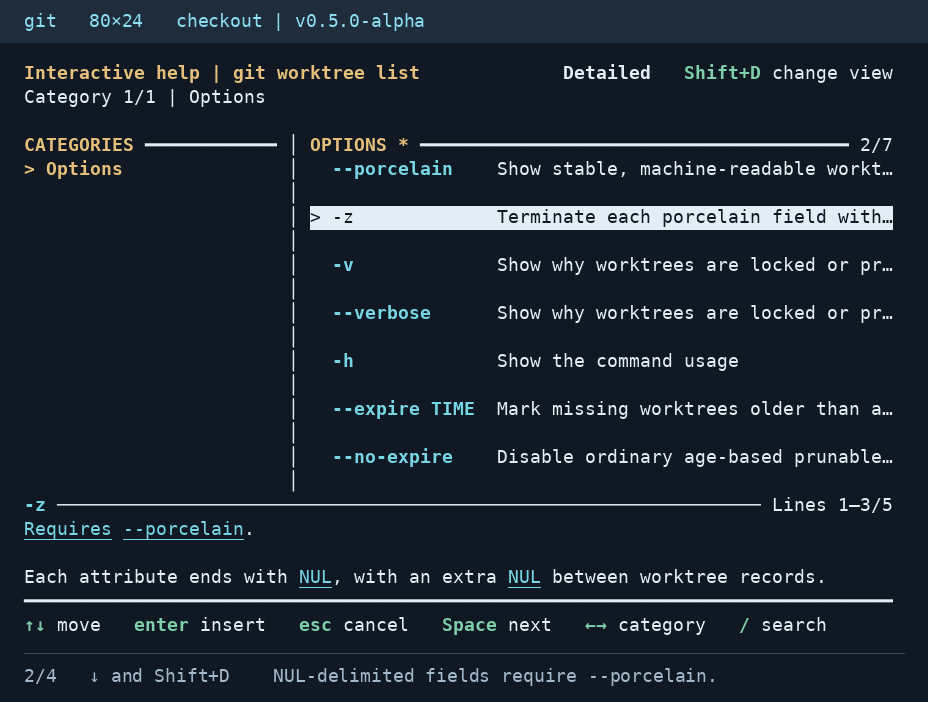
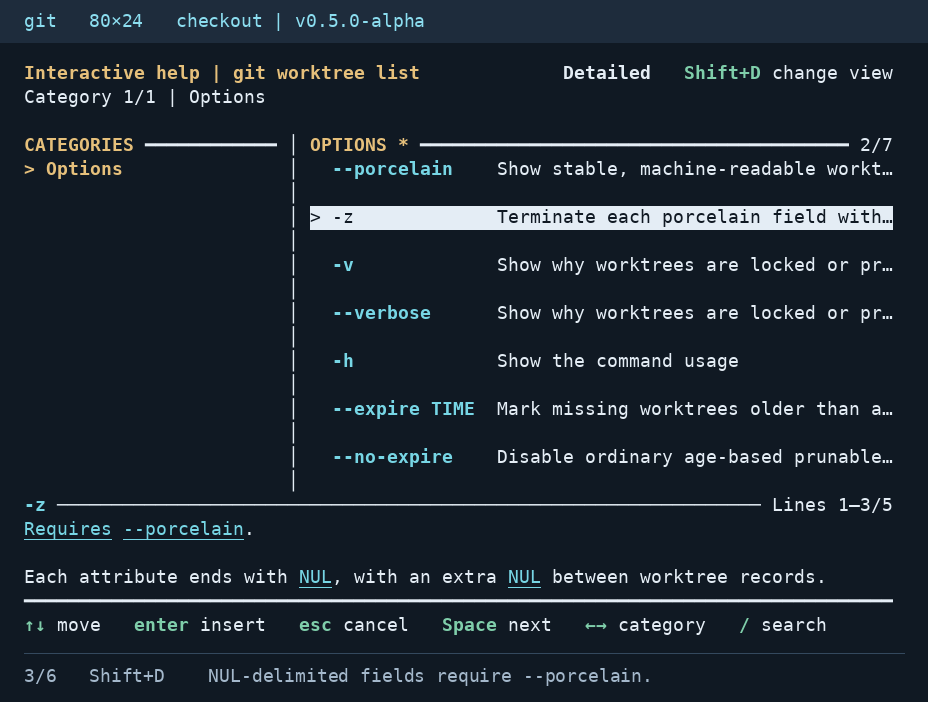
Explain simulation flags and detail levels

Changed region(s): [[0.0938, 0.9573, 0.7812, 0.9872], [0.0312, 0.9573, 0.0625, 0.9872]]

diff --git a/tools/capture_scenario_demos.py b/tools/capture_scenario_demos.py
@@ -80,6 +80,11 @@ class Recording:
         assert not self.shell.executed.exists()
         self.evidence.append(dict(pending=line, point=point, terminal_cursor=[state.x, state.y]))
 
+    def next_level(self, expected):
+        """Send Shift+D and wait for the menu header to confirm the requested level."""
+        self.shell.keys("D")
+        return self.shell.wait_for(lambda state: state.cells[0].endswith(expected + "   Shift+D change view"))
+
     def select(self, label):
         """Move through a filtered option list until the exact visible declaration is selected."""
         state = self.shell.capture()
@@ -119,21 +124,28 @@ def apt(rec):
     s.text("apt ins" + suffix)
     s.keys(*["Left"] * len(suffix))
     rec.pending("apt ins" + suffix, len("apt ins"))
-    rec.still("1-before", "1/4   Complete the verb before the quoted package name.", "apt ins 'graphviz'")
+    rec.still("1-before", "1/6   Complete the verb before the quoted package name.", "apt ins 'graphviz'")
     s.open_menu()
     rec.select("install")
-    rec.still("2-verb", "2/4   Alt-H → install    Complete the APT verb.", "> install [keyword]")
+    rec.still("2-verb", "2/6   Alt-H → install    Complete the APT verb.", "> install [keyword]")
     s.keys("Enter")
     rec.pending("apt install" + suffix, len("apt install "))
     s.text("--sim ")
     s.keys("Left")
     s.open_menu()
     rec.select("--simulate")
-    rec.still("3-simulate", "3/4   Alt-H → --simulate    Browse options specific to apt install.",
-              "Interactive help | apt install", "> --simulate")
+    rec.still("3-simulate", "3/6   Alt-H → --simulate    Browse options specific to apt install.",
+              "Interactive help | apt install", "> --simulate", "Simple   Shift+D")
+    rec.next_level("Detailed")
+    rec.still("3a-detailed", "4/6   Shift+D    The simulation calculates a plan with locking disabled.",
+              "> --simulate", "Detailed   Shift+D", "Plan: Preview", "Locking: APT disables locks")
+    rec.next_level("Expanded")
+    rec.still("3b-expanded", "5/6   Shift+D    Decode the planned dpkg actions and check the non-root caveat.",
+              "> --simulate", "Expanded   Shift+D", "Inst means unpack", "Conf means configure",
+              "Remv means remove", "[]", "Permissions: A non-root user")
     s.keys("Enter")
     rec.pending("apt install --simulate" + suffix, len("apt install --simulate "))
-    rec.still("4-after", "4/4   Enter    Bash keeps the quotes and the command is ready to edit.", "--simulate 'graphviz'")
+    rec.still("4-after", "6/6   Enter    Bash keeps the quotes and the command is ready to edit.", "--simulate 'graphviz'")
 
 
 def bash(rec):
@@ -142,21 +154,21 @@ def bash(rec):
     s.text("builtin read ")
     s.open_menu()
     rec.select("-t timeout")
-    rec.still("1-option", "1/3   Alt-H → -t timeout    Bash lists the argument beside its option.", "> -t timeout", "-d delim")
-    s.keys("D")
-    detailed = s.wait_for(lambda f: "Detailed" in f.cells[0])
+    rec.still("1-option", "1/4   Alt-H → -t timeout    Bash lists the argument beside its option.", "> -t timeout", "-d delim", "Simple   Shift+D")
+    detailed = rec.next_level("Detailed")
     assert "within TIMEOUT seconds" in " ".join(detailed.detail_body)
-    s.keys("D")
-    expanded = s.wait_for(lambda f: "Expanded" in f.cells[0])
+    rec.still("1a-detailed", "2/4   Shift+D    Read when the selected timeout returns failure.",
+              "> -t timeout", "within TIMEOUT seconds", "Detailed   Shift+D")
+    expanded = rec.next_level("Expanded")
     assert expanded.detail_range[0] == 1
-    rec.still("2-timeout", "2/3   Shift+D twice    Read the timeout, default, zero case and exit status together.",
+    rec.still("2-timeout", "3/4   Shift+D again    Read the timeout, default, zero case and exit status together.",
               "within TIMEOUT seconds", "TMOUT", "If TIMEOUT is 0", "greater than 128", "> -t timeout")
     s.keys("Enter")
     rec.pending("builtin read -t ", len("builtin read -t "))
     s.text("5 reply")
     line = "builtin read -t 5 reply"
     rec.pending(line, len(line))
-    rec.still("3-value", "3/3   The menu inserted -t. The user typed 5 seconds and the variable name reply.", line)
+    rec.still("3-value", "4/4   The menu inserted -t. The user typed 5 seconds and the variable name reply.", line)
 
 
 def git(rec):
@@ -165,21 +177,27 @@ def git(rec):
     line = "git worktree list "
     s.text(line)
     s.open_menu()
-    rec.still("1-scope", "1/4   Alt-H    Seven options belong to git worktree list.", "> --porcelain", "1/7")
-    s.keys("Down", "D")
-    s.wait_for(lambda f: "Detailed" in f.cells[0])
-    rec.still("2-dependency", "2/4   ↓ and Shift+D    NUL-delimited fields require --porcelain.", "> -z ", "Requires --porcelain")
+    rec.still("1-scope", "1/6   Alt-H    Seven options belong to git worktree list.", "> --porcelain", "1/7")
+    s.keys("Down")
+    s.wait_for(lambda state: state.selected_row.startswith("> -z "))
+    rec.still("1a-simple", "2/6   ↓ to -z    Read the short NUL-termination summary.",
+              "> -z ", "Simple   Shift+D")
+    rec.next_level("Detailed")
+    rec.still("2-dependency", "3/6   Shift+D    NUL-delimited fields require --porcelain.", "> -z ", "Requires --porcelain")
+    rec.next_level("Expanded")
+    rec.still("2a-expanded", "4/6   Shift+D    Read how Git separates worktree records.",
+              "> -z ", "Expanded   Shift+D", "Paths can contain newlines.")
     s.keys("Up", "Enter")
     line += "--porcelain "
     rec.pending(line, len(line))
-    rec.still("3-porcelain", "3/4   ↑ and Enter    Insert the stable output format first.", line.rstrip())
+    rec.still("3-porcelain", "5/6   ↑ and Enter    Insert the stable output format first.", line.rstrip())
     s.open_menu()
     s.keys("Down")
     s.wait_for(lambda f: f.selected_row.startswith("> -z "))
     s.keys("Enter")
     line += "-z "
     rec.pending(line, len(line))
-    rec.still("4-final", "4/4   Alt-H → -z → Enter    Both switches are on the pending line.", line.rstrip())
+    rec.still("4-final", "6/6   Alt-H → -z → Enter    Both switches are on the pending line.", line.rstrip())
 
 
 def ffmpeg(rec):
@@ -192,19 +210,25 @@ def ffmpeg(rec):
     s.open_menu()
     s.keys(*["Right"] * 13)
     s.wait_for(lambda f: f.selected_row.startswith("> -alpha_mode "))
-    rec.still("1-first", "1/4   Alt-H → Codec parameters    Start at the first of 92 entries.", "> -alpha_mode", "1/92")
+    rec.still("1-first", "1/6   Alt-H → Codec parameters    Start at the first of 92 entries.", "> -alpha_mode", "1/92")
     s.keys("PageDown")
     page = s.wait_for(lambda f: f.selected_row and not f.selected_row.startswith("> -alpha_mode "))
     label = page.selected_row.split()[1]
     count = re.search(r"(\d+)/92$", page.cells[3])[1]
     assert 1 < int(count) < 92
-    rec.still("2-page", f"2/4   PageDown    The next page selects {label}, entry {count} of 92.", "> " + label + " ", count + "/92")
+    rec.still("2-page", f"2/6   PageDown    The next page selects {label}, entry {count} of 92.", "> " + label + " ", count + "/92")
     s.keys("End")
     s.wait_for(lambda f: f.selected_row.startswith("> -trellis "))
-    rec.still("3-last", "3/4   End    Reach the final codec parameter in one keystroke.", "> -trellis", "92/92")
+    rec.still("3-last", "3/6   End    Reach the final codec parameter in one keystroke.", "> -trellis", "92/92", "Simple   Shift+D")
+    rec.next_level("Detailed")
+    rec.still("3a-detailed", "4/6   Shift+D    Read where -trellis belongs in the FFmpeg command.",
+              "> -trellis", "92/92", "Detailed   Shift+D", "Before the output filename")
+    rec.next_level("Expanded")
+    rec.still("3b-expanded", "5/6   Shift+D    Inspect the numerical guidance for -trellis.",
+              "> -trellis", "92/92", "Expanded   Shift+D")
     s.cancel()
     rec.pending(prefix + suffix, len(prefix))
-    rec.still("4-restored", "4/4   Esc returns to the edit    The cursor and quoted filename are restored.", suffix)
+    rec.still("4-restored", "6/6   Esc returns to the edit    The cursor and quoted filename are restored.", suffix)
 
 
 def rsync(rec):
@@ -254,6 +278,17 @@ def rsync(rec):
         add(frame, "Bare rate in KiB/s    Only the clipped summary moves.", delay)
     time.sleep(1)
     assert rec.frame().cells == motion[-1][1].cells
+    s.keys("Right")
+    s.wait_for(lambda state: state.cells[1].startswith("Details"))
+    for level, caption in (
+            ("Simple", "→ Details    Read the selected option's summary."),
+            ("Detailed", "Shift+D    Read the bandwidth and rounding rules."),
+            ("Expanded", "Shift+D    Inspect the documented rate and units.")):
+        if level != "Simple":
+            rec.next_level(level)
+        frame = rec.still(level.lower(), caption, "Details", "--bwlimit=RATE", level + "   Shift+D")
+        add(frame, caption, 3200 if level != "Expanded" else 4500)
+
     s.keys("Enter")
     prefix = "rsync --bwlimit="
     rec.pending(prefix, len(prefix))

diff --git a/tests/test_ubuntu_command_coverage.py b/tests/test_ubuntu_command_coverage.py
@@ -33,6 +33,31 @@ class UbuntuPackagingTests(unittest.TestCase):
             return build_profile([name, *subcommands], documents)
         return find_context(line, len(line) if cursor is None else cursor, [], lookup)
 
+    def test_apt_simulation_levels_aliases_and_short_option_scope(self):
+        from presentation import option_text
+
+        for edition in ("noble", "resolute"):
+            for program in ("apt", "apt-get"):
+                with self.subTest(edition=edition, program=program):
+                    prefix = program + " install --sim"
+                    context = self.menu(edition, prefix + " 'graphviz'", len(prefix))
+                    options = rows(context.profile)
+                    category = context.profile["categories"][0]
+                    for flag in ("--simulate", "-s", "--just-print", "--dry-run", "--recon", "--no-act"):
+                        view = option_text(context.profile, category, options[flag])
+                        self.assertEqual(view.summary, "Simulate package actions without changing the system")
+                        self.assertIn("current package state", view.detailed[0])
+                        self.assertIn("disables locks", view.detailed[1])
+                        expanded = " ".join(view.expanded)
+                        for meaning in ("Inst means unpack", "Conf means configure", "Remv means remove",
+                                        "broken packages", "non-root", "APT::Get::Simulate"):
+                            self.assertIn(meaning, expanded)
+                        result = program + " install " + flag + " "
+                        self.assertEqual(insert_option(context, options[flag]), (result + "'graphviz'", len(result)))
+            cache_file = rows(self.menu(edition, "apt search ").profile)["-s"]
+            self.assertEqual(cache_file["argument"], "FILE")
+            self.assertNotIn("disables locks", cache_file.get("detail", ""))
+
     def test_apt_verb_edition_alias_and_operand_boundaries(self):
         for edition in ("noble", "resolute"):
             with self.subTest(edition=edition):

diff --git a/cli_help/ubuntu_packaging.py b/cli_help/ubuntu_packaging.py
@@ -46,6 +46,20 @@ APT_VALUES = {
     "-f": "FILE", "-o": "KEY=VALUE", "-p": "FILE", "-s": "FILE", "-t": "RELEASE",
 }
 
+# Both reviewed apt(8) editions refer install to apt-get(8), whose --simulate
+# entry documents these spellings. Other APT tools can assign -s a different role.
+SIMULATION_FLAGS = frozenset({"-s", "--simulate", "--just-print", "--dry-run", "--recon", "--no-act"})
+SIMULATION_DETAIL = (
+    "Plan: Preview the operations for the current package state without applying them.\n"
+    "Locking: APT disables locks during simulation, so the package state can change during the run.\n"
+    "Output: Inst means unpack, Conf means configure, and Remv means remove.\n"
+    "Brackets: Square brackets mark broken packages, with [] for rare breaks of no consequence.\n"
+    "Permissions: A non-root user can get a different plan if some APT configuration is unreadable.\n"
+    "Configuration: APT::Get::Simulate enables simulation. "
+    "APT::Get::Show-User-Simulation-Note controls the notice shown by default to non-root users.\n"
+    "Source: apt-get(8), --simulate."
+)
+
 
 def apt_document(text, command):
     """Select options by the edition printed in root help or the packaged manual footer."""
@@ -62,6 +76,8 @@ def apt_document(text, command):
             summary = DESCRIPTIONS.get(flag) or f"Set the {flag} option for {' '.join(command)}."
             entry = {"flag": flag, "argument": APT_VALUES[flag] if required else "",
                      "summary": summary, "category": "Options"}
+            if name in {"apt", "apt-get"} and "--simulate" in verbs[verb] and flag in SIMULATION_FLAGS and not required:
+                entry.update(summary=DESCRIPTIONS["--simulate"], detail=SIMULATION_DETAIL)
             if required and len(flag) == 2:
                 entry["attached"] = True
             rows.append(entry)

diff --git a/cli_help/discovery.py b/cli_help/discovery.py
@@ -43,7 +43,7 @@ from value_semantics import ValueContext, validate_profile_semantics, validate_v
 # Limits apply per source. Two sources are queried on an uncached auto lookup.
 MAX_OUTPUT_BYTES = 512 * 1024
 MAX_CACHE_BYTES = 2 * 1024 * 1024
-CACHE_VERSION = 20
+CACHE_VERSION = 21
 FLAG_PATTERN = re.compile(r"(?<![\w=:-])(--?[A-Za-z0-9][A-Za-z0-9_-]*(?:[.:][A-Za-z0-9][A-Za-z0-9_-]*)*|-[.#:](?=,\s+--)|(?<=, )-@)(?=$|[\s,=\[<])")
 # These are interpreter switches with no separate values or code operands.
 # Module routes are deliberately independent of user-editable driver files.

diff --git a/docs/menu-demo-storyboards.md b/docs/menu-demo-storyboards.md
@@ -4,13 +4,13 @@ These five recordings show the development checkout running in real interactive 
 
 | Package | User’s task | Capability shown | Capture |
 | --- | --- | --- | --- |
-| apt | Preview installing Graphviz | Complete a verb at the cursor, then use verb-specific options | Four PNGs |
-| bash | Give a prompt a five-second timeout | Read installed builtin help and supply a required argument | Three PNGs |
-| git | Prepare a machine-readable worktree listing | Follow a nested command and discover a prerequisite | Four PNGs |
-| rsync | Limit a transfer over a slow connection | Reveal clipped text without shifting the option name | Timed GIF |
-| ffmpeg | Find the last entry in a large codec menu | Page through a category and cancel back to an unfinished edit | Four PNGs |
+| apt | Preview installing Graphviz | Complete a verb at the cursor, then use verb-specific options | Six PNGs |
+| bash | Give a prompt a five-second timeout | Read installed builtin help and supply a required argument | Four PNGs |
+| git | Prepare a machine-readable worktree listing | Follow a nested command and discover a prerequisite | Six PNGs |
+| rsync | Limit a transfer over a slow connection | Reveal clipped text without shifting the option name | Timed GIF and three PNGs |
+| ffmpeg | Find the last entry in a large codec menu | Page through a category and cancel back to an unfinished edit | Six PNGs |
 
-The recorder drove the Alt-H shortcut from Bash on Ubuntu 26.04.1 LTS, using Bash 5.3.9 and tmux. All five recordings use the working tree based on `9d512ed` with the updated Details formatting and shortcut colors. APT and Bash used installed-provider discovery. Git, rsync and FFmpeg used the bundled profiles. The menu images show the full pane. Prompt stills crop the empty rows below the cursor. Keystroke captions sit outside the terminal.
+The recorder drove the Alt-H shortcut from Bash on Ubuntu 26.04.1 LTS, using Bash 5.3.9 and tmux. The runtime is based on commit `32fcec7`. The APT recording also includes the manual-backed simulation guidance. Each three-level comparison keeps the same option selected and uses Shift+D to advance. APT and Bash used installed-provider discovery. Git, rsync and FFmpeg used the bundled profiles. The menu images show the full pane. Prompt stills crop the empty rows below the cursor. Keystroke captions sit outside the terminal.
 
 ## 1. APT · preview a package install
 
@@ -18,12 +18,16 @@ Start at 100×26 with `apt ins▏ 'graphviz'`.
 
 1. **Before.** Show the incomplete verb, cursor and quoted operand.
 2. **Complete the verb.** Press Alt-H, highlight the literal keyword `install`, and capture its selection. Press Enter in the menu.
-3. **Inspect the install options.** At the returned cursor before the quoted name, type `--sim` and a separating space. Move left one character to leave `apt install --sim▏ 'graphviz'`. Reopen with Alt-H and highlight `--simulate`. Keep the `apt install` title in frame.
+3. **Inspect the install options.** At the returned cursor before the quoted name, type `--sim` and a separating space. Move left one character to leave `apt install --sim▏ 'graphviz'`. Reopen with Alt-H and highlight `--simulate`. Keep the `apt install` title in frame. Advance through Detailed and Expanded. Detailed explains how the plan is computed with locking disabled. Expanded decodes the simulated dpkg actions and square brackets, then explains how configuration permissions can affect the result. The install entry in apt(8) points to apt-get(8), which documents the simulation flags. [Captured apt(8) manual](../tests/fixtures/ubuntu-coverage/resolute-apt.txt) · [Captured apt-get(8) manual](../tests/fixtures/ubuntu-coverage/resolute-apt-get.txt)
 4. **After.** Accept the option. Show `apt install --simulate ▏'graphviz'`. Frame the same portion of the prompt as in step 1 so the preserved quotes are easy to compare.
 
-| Pending edit | Select the verb | Select the option | Returned line |
-| --- | --- | --- | --- |
-| ![Bash cursor after ins, before the quoted package](assets/scenarios/apt-1-before.png) | ![APT install keyword highlighted](assets/scenarios/apt-2-verb.png) | ![The apt install menu highlights --simulate](assets/scenarios/apt-3-simulate.png) | ![The inserted flag and preserved quoted package](assets/scenarios/apt-4-after.png) |
+| Pending edit | Select the verb | Returned line |
+| --- | --- | --- |
+| ![Bash cursor after ins, before the quoted package](assets/scenarios/apt-1-before.png) | ![APT install keyword highlighted](assets/scenarios/apt-2-verb.png) | ![The inserted flag and preserved quoted package](assets/scenarios/apt-4-after.png) |
+
+| Simple · `--simulate` | Detailed | Expanded |
+| --- | --- | --- |
+| ![Simple simulation summary](assets/scenarios/apt-3-simulate.png) | ![Detailed shows how APT plans operations without locking](assets/scenarios/apt-3a-detailed.png) | ![Expanded explains Inst, Conf, Remv, broken packages, and non-root permissions](assets/scenarios/apt-3b-expanded.png) |
 
 ## 2. Bash · time out a prompt
 
@@ -33,22 +37,28 @@ Start at 112×36 with `builtin read ▏`. The explicit `builtin` selects Bash’
 2. **Understand the timeout.** Press Shift+D for the selected option’s behavior, then Shift+D again for Expanded. The first page shows the default, fractional timeouts, the zero case and the exit status, followed by the builtin reference.
 3. **Supply the value.** Accept `-t`. In Bash, type `5 reply`. End on `builtin read -t 5 reply▏` and caption which text the menu inserted and which text was typed.
 
-| Find the argument | Read the timeout rule | Fill in the value |
+| Simple · `-t timeout` | Detailed | Expanded |
 | --- | --- | --- |
-| ![Bash read lists -t timeout alongside other arguments](assets/scenarios/bash-1-option.png) | ![Expanded shows the installed Bash timeout rule](assets/scenarios/bash-2-timeout.png) | ![The pending command reads builtin read -t 5 reply](assets/scenarios/bash-3-value.png) |
+| ![Bash read lists -t timeout alongside other arguments](assets/scenarios/bash-1-option.png) | ![Detailed shows when a read times out and which default applies](assets/scenarios/bash-1a-detailed.png) | ![Expanded shows the installed Bash timeout rule](assets/scenarios/bash-2-timeout.png) |
+
+![The pending command reads builtin read -t 5 reply](assets/scenarios/bash-3-value.png)
 
 ## 3. Git · list worktrees for a script
 
 Start at 80×24 with `git worktree list ▏`. The goal is stable output even when a worktree path contains a newline.
 
 1. **Scope.** Press Alt-H. Show the `git worktree list` title and `--porcelain`, the first option in this seven-entry menu.
-2. **Discover the dependency.** Move down to `-z` and press Shift+D. Capture the detail explaining that NUL termination requires `--porcelain`. Keep both names legible.
+2. **Discover the dependency.** Move down to `-z`. Press Shift+D for the `--porcelain` prerequisite, then again for Expanded and the note about newlines in paths.
 3. **Choose the prerequisite.** Move up to `--porcelain` and accept. Show it on the pending line. Reopen the same menu with Alt-H.
 4. **Finish.** Select `-z` and accept. Show `git worktree list --porcelain -z ▏`. Use this prompt as the final frame because the resulting NUL characters would be invisible in a terminal listing.
 
-| Open the nested menu | Read the prerequisite | Insert --porcelain | Add -z |
-| --- | --- | --- | --- |
-| ![Git worktree list opens on --porcelain](assets/scenarios/git-1-scope.png) | ![Details for -z say it requires --porcelain](assets/scenarios/git-2-dependency.png) | ![The output format inserted at the Bash prompt](assets/scenarios/git-3-porcelain.png) | ![The pending line contains both switches](assets/scenarios/git-4-final.png) |
+| Open the nested menu | Insert --porcelain | Add -z |
+| --- | --- | --- |
+| ![Git worktree list opens on --porcelain](assets/scenarios/git-1-scope.png) | ![The output format inserted at the Bash prompt](assets/scenarios/git-3-porcelain.png) | ![The pending line contains both switches](assets/scenarios/git-4-final.png) |
+
+| Simple · `-z` | Detailed | Expanded |
+| --- | --- | --- |
+| ![Simple describes NUL termination](assets/scenarios/git-1a-simple.png) | ![Detailed shows the porcelain prerequisite](assets/scenarios/git-2-dependency.png) | ![Expanded explains how Git handles paths with newlines](assets/scenarios/git-2a-expanded.png) |
 
 ## 4. rsync · read a clipped bandwidth limit
 
@@ -57,9 +67,14 @@ Use 60×16 with `CLI_HELP_NARROW_MENU=1` and default summary scrolling. Start wi
 1. **Locate.** Open with Alt-H, move down six categories to Network, press → for Options, and move down once to `--bwlimit=RATE`. Show the clipped summary and its neighboring rows.
 2. **Pause.** Hold the opening frame for the full two seconds after highlighting the option. Keep the entire option row visible.
 3. **Reveal.** Record the actual app at normal speed as only the highlighted summary moves and reveals “KiB/s)”. Hold the final text briefly. Keep the declaration, highlight marker and neighboring rows in view as stationary references.
-4. **Apply.** Press Enter to insert `--bwlimit=`. Type `5000 'project files/' backup/` at the prompt. End on `rsync --bwlimit=5000 'project files/' backup/▏`. The bare value represents 5000 KiB/s.
+4. **Compare levels.** Press → to open Details in Simple. Press Shift+D for the average rate and rounding rules. Press it again for the bare-number unit and input form.
+5. **Apply.** Press Enter in Expanded to insert `--bwlimit=`. Type `5000 'project files/' backup/` at the prompt. End on `rsync --bwlimit=5000 'project files/' backup/▏`. The bare value represents 5000 KiB/s.
 
 ![The highlighted rsync summary holds for two seconds, scrolls to reveal KiB/s, and the flag returns to Bash](assets/scenarios/rsync-bandwidth.gif)
+
+| Simple · `--bwlimit=RATE` | Detailed | Expanded |
+| --- | --- | --- |
+| ![Simple narrow Details screen with the bare bandwidth unit](assets/scenarios/rsync-simple.png) | ![Detailed narrow screen with average rate and rounding rules](assets/scenarios/rsync-detailed.png) | ![Expanded narrow screen with value and input sections](assets/scenarios/rsync-expanded.png) |
 
 ## 5. FFmpeg · find a codec setting and return to an edit
 
@@ -67,17 +82,21 @@ Start at 120×30 with `ffmpeg ▏ 'review clip.mp4'`. The cursor is between the 
 
 1. **Orient.** Press Alt-H and move right 13 categories to Codec parameters. Capture the first selection, `-alpha_mode`, alongside the 1/92 counter.
 2. **Page.** Press PageDown once. Show the new highlighted option and counter. Record the actual name shown at this size, since the jump depends on available rows.
-3. **Reach the end.** Press End. Capture `-trellis` and 92/92. Keep the complete row and footer visible. If Details is needed to read its meaning, switch views before taking this still.
+3. **Reach the end.** Press End. Capture `-trellis` and 92/92. Press Shift+D to read where the option belongs and press it again for the numerical guidance. Check that the counter stays at 92/92.
 4. **Restore.** Press Esc. Show the original line and cursor immediately before the existing space and quoted filename. Use the caption “Esc returns to the edit” and retain the quoted name in the crop.
 
-| First of 92 | PageDown to 13 | Last of 92 | Return to Bash |
-| --- | --- | --- | --- |
-| ![Codec parameters opens on -alpha_mode](assets/scenarios/ffmpeg-1-first.png) | ![PageDown highlights -color_primaries at 13/92](assets/scenarios/ffmpeg-2-page.png) | ![End highlights -trellis at 92/92](assets/scenarios/ffmpeg-3-last.png) | ![Escape restores the cursor before the quoted filename](assets/scenarios/ffmpeg-4-restored.png) |
+| First of 92 | PageDown to 13 | Return to Bash |
+| --- | --- | --- |
+| ![Codec parameters opens on -alpha_mode](assets/scenarios/ffmpeg-1-first.png) | ![PageDown highlights -color_primaries at 13/92](assets/scenarios/ffmpeg-2-page.png) | ![Escape restores the cursor before the quoted filename](assets/scenarios/ffmpeg-4-restored.png) |
+
+| Simple · `-trellis` | Detailed | Expanded |
+| --- | --- | --- |
+| ![End highlights trellis at 92 of 92](assets/scenarios/ffmpeg-3-last.png) | ![Detailed shows placement before the output filename](assets/scenarios/ffmpeg-3a-detailed.png) | ![Expanded shows the numeric input and its meaning](assets/scenarios/ffmpeg-3b-expanded.png) |
 
 ## Capture and verification
 
 The Ubuntu packages installed during recording were APT `3.2.1ubuntu0.1`, Bash `5.3-2ubuntu1`, Git `1:2.53.0-1ubuntu1.1`, rsync `3.4.1+ds1-7ubuntu0.3`, FFmpeg `7:8.0.1-3ubuntu2` and tmux `3.6a-2ubuntu0.2`.
 
-The [scenario recorder](../tools/capture_scenario_demos.py) checks terminal dimensions, selected text, the returned Readline buffer and its cursor offset. In the recorded rsync session, the first change to the selected summary was observed at 2.003 seconds. The encoded GIF holds the opening highlight for exactly 2.000 seconds. The declaration and neighboring rows stay fixed through all six summary states.
+The [scenario recorder](../tools/capture_scenario_demos.py) checks terminal dimensions, selected text, the returned Readline buffer and its cursor offset. In the recorded rsync session, the first change to the selected summary was observed at 2.005 seconds. The encoded GIF holds the opening highlight for exactly 2.000 seconds. The declaration and neighboring rows stay fixed through all six summary states.
 
 With tmux installed and the [media environment](assets/README.md#regeneration) active, run `python tools/capture_scenario_demos.py` from the checkout. Pass one package name to repeat only that scenario. Original terminal text, cursor positions and animation timings are saved under `tests/reports/scenario-demos/`.
